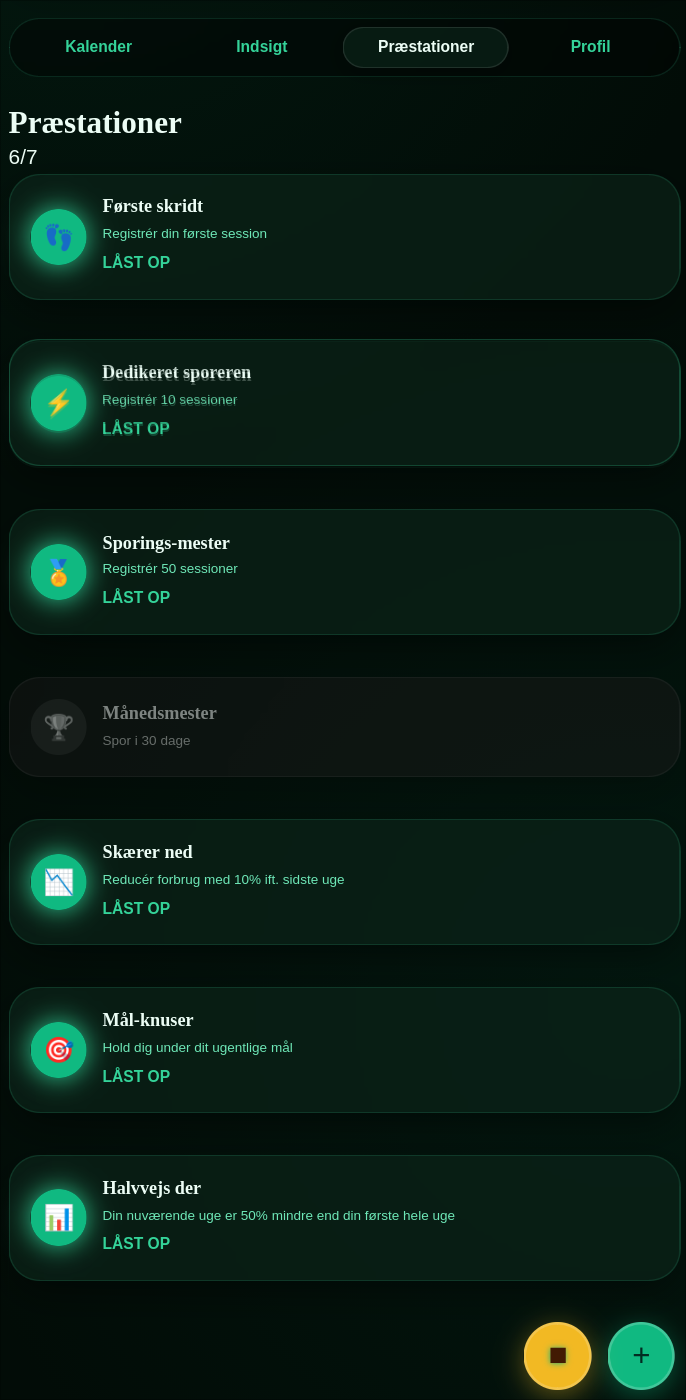
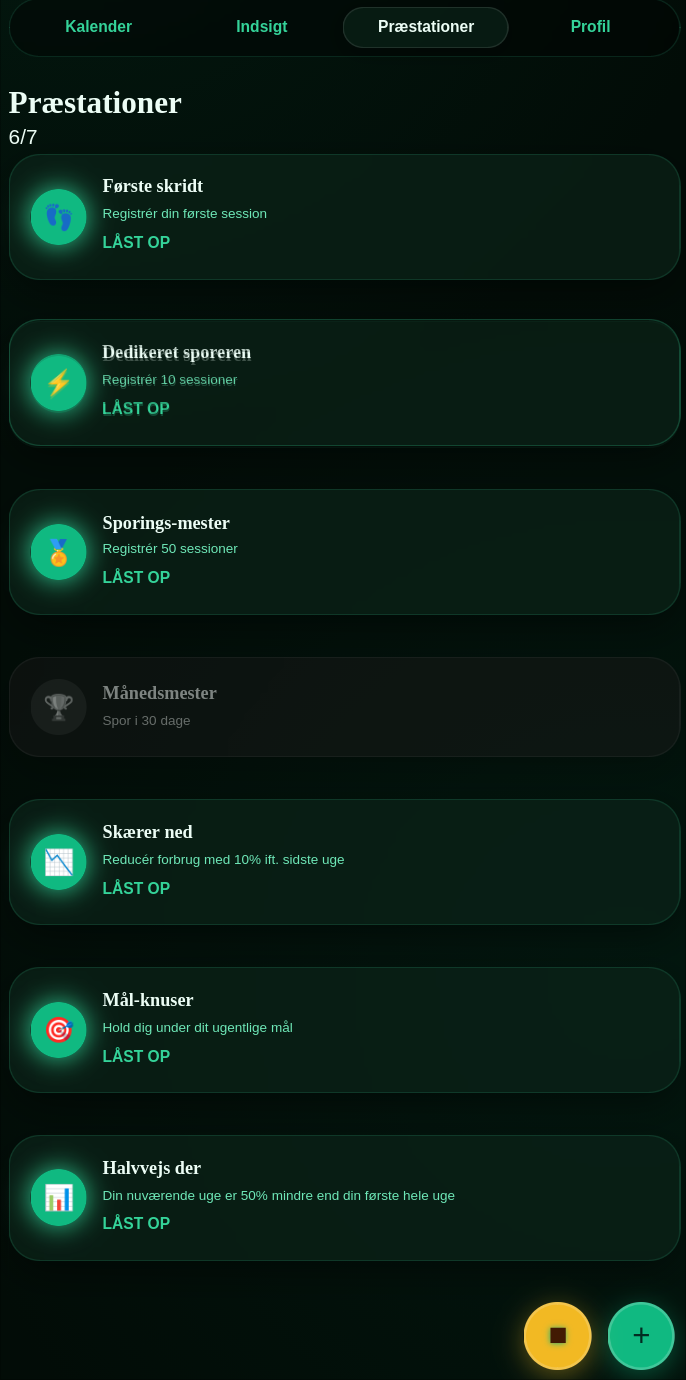
added better photos

diff --git a/style.css b/style.css
@@ -682,23 +682,19 @@ input:checked+.slider:before {
 
 .showcase-phone {
     width: 100%;
-    max-width: 480px;
+    max-width: 360px;
     margin: 0 auto;
     border-radius: 24px;
     padding: 6px;
-    box-sizing: border;
+    box-sizing: border-box;
     overflow: hidden;
-    aspect-ratio: 2 / 3;
 }
 
 .showcase-phone img {
     width: 100%;
-    height: 100%;
+    height: auto;
     border-radius: 20px;
     display: block;
-    object-fit: cover;
-    object-position: 39% top;
-
 }
 
 /* Features Section */
